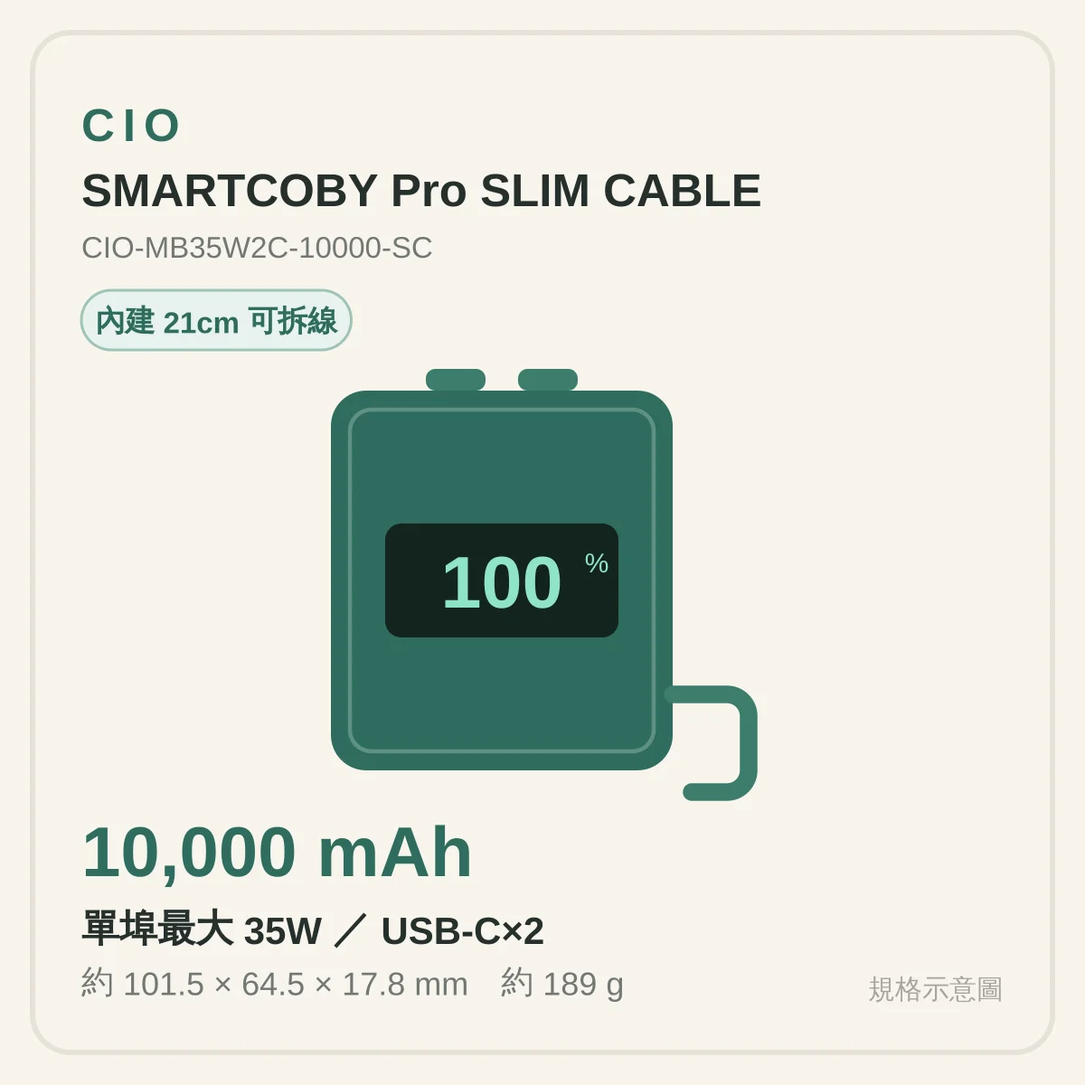
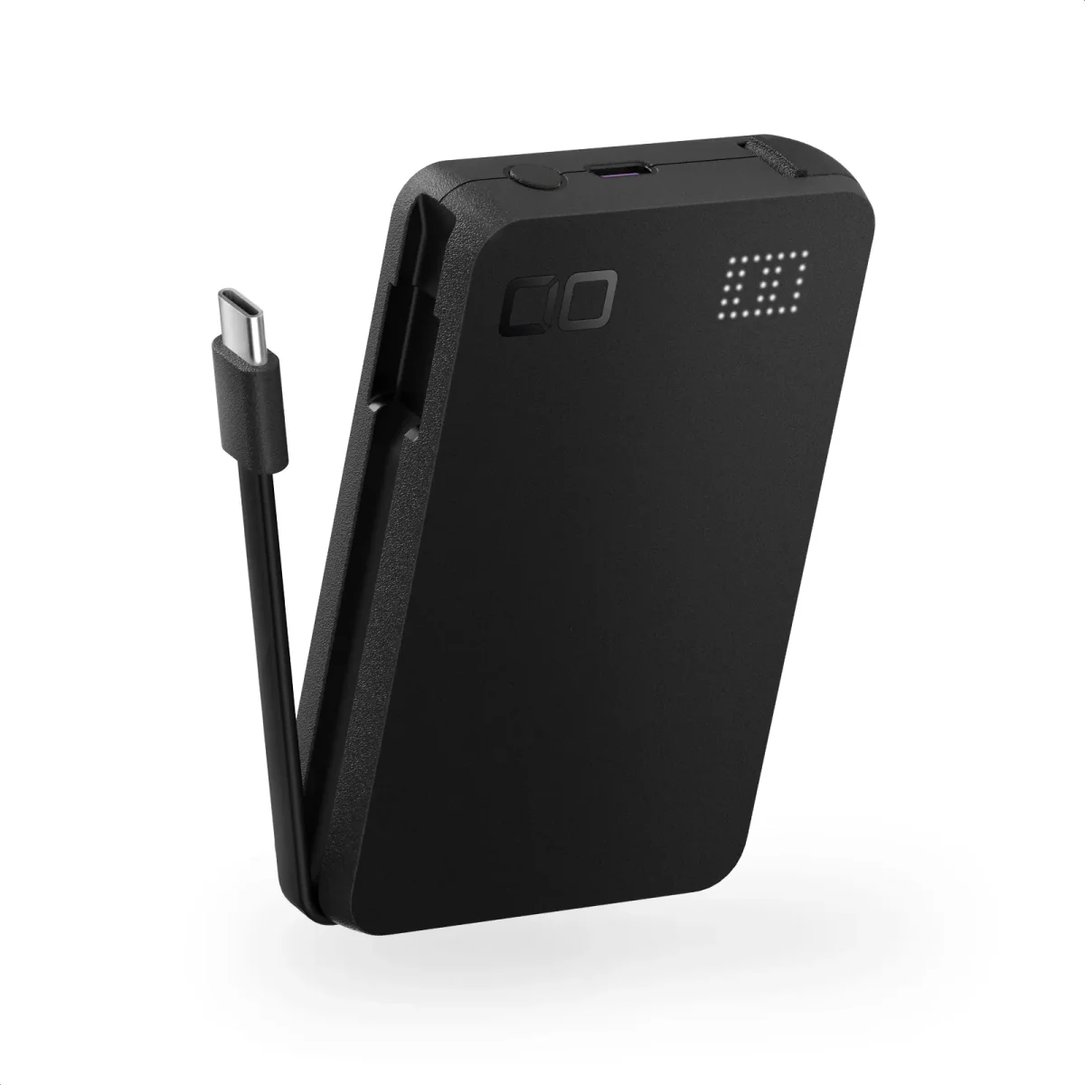
滑鼠與行動電源：8 項換上官方商品照，滑鼠分頁擴充到 10 款
原本 4 款滑鼠用文字版品牌卡、4 款 CIO 用自繪規格示意圖，這次換成
使用者提供的品牌官方商品照。Sanwa 軌跡球原圖是 3193px 高的行銷長圖，
裁出最上方主視覺（兩隻機身＋接收器完整入鏡）再進 build。

滑鼠分頁新增 6 款，補既有 4 款沒涵蓋的品類缺口，並依「人體工學造型
→ 軌跡球 → 隨身輕便」三組重排、組內由便宜到貴，MOUSE_SUMMARIES
編號改為 ①～⑩：

- ELECOM EX-G PRO M-XGM50MBSKBK ¥6,590（同系列頂規）
- Sanwa Supply 400-MA092 ¥2,780（最便宜的人體工學造型）
- Logicool ERGO M575 SP M575SPOW ¥8,400（軌跡球中階）
- Logicool MX ERGO S MXTB2 ¥17,700（軌跡球旗艦）
- Logicool PEBBLE MOUSE 2 M350sBL ¥3,240（超薄極輕）
- Buffalo BSMBW318BK ¥2,080（最低價備用）

六款價格皆以真實瀏覽器逐頁核對（Yodobashi 封鎖 curl，只驗 HTTP
狀態碼會全部假失敗）。研究稿原把 EX-G PRO 與 400-MA092 寫成垂直／
縦型滑鼠，覆核兩家官網後確認皆非垂直款，卡片文案已改為實際形狀並
明講「不是垂直滑鼠」；400-MA092 來源改用 Sanwa Direct 官方商品頁。

新增的 6 款尚無實拍照片，沿用專案既有的文字版品牌卡，分頁橫幅說明
改為「部分為官方商品照、部分為文字版品牌卡」。

驗收：npm run validate:data（73 項商品、73 個唯一 id、45 家店）與
npm test 皆綠燈；headless Chrome 430px 實測滑鼠／行動電源兩分頁圖片
全數載入、console 無錯誤；另派 fresh-context agent read-back 14 項全過。

diff --git a/assets/products.js b/assets/products.js
@@ -241,7 +241,7 @@ const BASE_PRODUCTS = [
     storeCandidates: ['biccamera-tenjin-2', 'yodobashi-camera-hakata', 'bestdenki-kokura-ekimae']
   },
 
-  // ── 滑鼠（mouse，4 項；品牌研究建議，尚未實地走訪店面核對現貨，卡片為文字版品牌卡） ──
+  // ── 滑鼠（mouse，10 項；品牌研究建議，尚未實地走訪店面核對現貨。前 4 項為品牌官方商品照，2026-08-20 新增的 6 項尚無實拍照片，用文字版品牌卡） ──
   {
     id: 'elecom-ex-g',
     group: 'mouse',
@@ -259,6 +259,42 @@ const BASE_PRODUCTS = [
     stores: [],
     storeCandidates: ['yodobashi-camera-hakata', 'biccamera-tenjin-1'],
     priceKind: 'retailer-reference', priceSourceUrl: 'https://www.yodobashi.com/product/100000001007874792/', priceCheckedAt: '2026-08-19', priceNote: 'Yodobashi.com 商品頁列出的 M 尺寸／2.4GHz／黑色款含稅售價；門市現場實際庫存尺寸、顏色與售價可能不同，請以店內標示為準。'
+  },
+  {
+    id: 'elecom-ex-g-pro',
+    group: 'mouse',
+    tracking: 'try',
+    category: null,
+    name: 'ELECOM EX-G PRO 人體工學無線滑鼠',
+    jaName: '静音 充電式 Bluetooth5.0マウス EX-G 8ボタン Mサイズ',
+    model: 'M-XGM50MBSKBK（Mサイズ・ブラック）',
+    yen: 6590,
+    twdRef: null,
+    defaultQty: null,
+    image: 'images/thumb/elecom-ex-g-pro.webp',
+    note: 'EX-G 系列的頂規版本，和上面那款是同一種「不必用力握住」的手形（不是垂直滑鼠），差別在功能全面升級：8 顆可自訂按鍵、可左右傾斜的高速滾輪、最多 3 台裝置切換、充電式免換電池。ELECOM 與整形外科醫師共同開發。適合已經確定喜歡 EX-G 手感、想一次買到系列最高階的人。',
+    source: 'docs/mouse-research-additional-2026-08-20.md',
+    stores: [],
+    storeCandidates: ['yodobashi-camera-hakata', 'biccamera-tenjin-1', 'biccamera-tenjin-2'],
+    priceKind: 'retailer-reference', priceSourceUrl: 'https://www.yodobashi.com/product/100000001008069243/', priceCheckedAt: '2026-08-20', priceNote: 'Yodobashi.com 商品頁含稅售價 ¥6,590（回饋 659 點）。ELECOM 官方商品頁標示的含稅定價為 ¥17,424，日本周邊廠商常訂高定價再由通路折讓，此處採實際付得出的通路價。門市庫存尺寸、顏色與售價可能不同，請以店內標示為準；尚未確認天神、博多實體店是否鋪貨。'
+  },
+  {
+    id: 'sanwa-400-ma092',
+    group: 'mouse',
+    tracking: 'try',
+    category: null,
+    name: 'Sanwa Supply 人體工學無線滑鼠 400-MA092',
+    jaName: 'ワイヤレスマウス 無線 2.4GHz エルゴノミクス ブルーLED 5ボタン',
+    model: '400-MA092（ブラック）',
+    yen: 2780,
+    twdRef: null,
+    defaultQty: null,
+    image: 'images/thumb/sanwa-400-ma092.webp',
+    note: '機身背部拉高、向內傾斜的人體工學造型（不是垂直滑鼠），手掌自然攤放不必用力抓握；5 鍵可自訂、2.4GHz 無線、中等尺寸男女都好握。¥2,780 是滑鼠分頁裡最便宜的人體工學款，不到 EX-G 的六折，適合想先用小預算試試這種形狀合不合手的人。',
+    source: 'docs/mouse-research-additional-2026-08-20.md',
+    stores: [],
+    storeCandidates: [],
+    priceKind: 'official', priceSourceUrl: 'https://direct.sanwa.co.jp/ItemPage/400-MA092', priceCheckedAt: '2026-08-20', priceNote: 'Sanwa Direct 官方線上商店商品頁含稅售價 ¥2,780。此為 Sanwa Direct 網路限定商品（WEB 限定），天神、博多實體通路不一定買得到，未列可詢問門市；想要的話建議直接線上訂購。'
   },
   {
     id: 'sanwa-ma-ergw19',
@@ -297,6 +333,42 @@ const BASE_PRODUCTS = [
     priceKind: 'official', priceSourceUrl: 'https://direct.sanwa.co.jp/ItemPage/400-MAWBTTB190BK', priceCheckedAt: '2026-08-19', priceNote: 'Sanwa Direct 官方線上商店商品頁含稅售價 ¥5,480。目前僅確認官方線上商店售價，尚未確認天神、博多實體店是否常態鋪貨。'
   },
   {
+    id: 'logicool-ergo-m575-sp',
+    group: 'mouse',
+    tracking: 'try',
+    category: null,
+    name: 'Logicool ERGO M575 SP 無線軌跡球滑鼠',
+    jaName: 'ワイヤレストラックボールマウス ERGO M575 SP 静音',
+    model: 'M575SPOW（オフホワイト＋ブルーボール）',
+    yen: 8400,
+    twdRef: null,
+    defaultQty: null,
+    image: 'images/thumb/logicool-ergo-m575-sp.webp',
+    note: '上面那顆 Sanwa 軌跡球與旗艦 MX ERGO S 之間的中價位選擇，同樣是拇指操作、手臂不用移動，按鍵做了靜音化。支援藍牙與 Logi Bolt 接收器。適合想體驗軌跡球好處、又還不確定要不要一次投資到旗艦款的人。',
+    source: 'docs/mouse-research-additional-2026-08-20.md',
+    stores: [],
+    storeCandidates: ['yodobashi-camera-hakata', 'biccamera-tenjin-1', 'biccamera-tenjin-2'],
+    priceKind: 'retailer-reference', priceSourceUrl: 'https://www.yodobashi.com/product/100000001008693278/', priceCheckedAt: '2026-08-20', priceNote: 'Yodobashi.com 商品頁含稅售價 ¥8,400（回饋 840 點）。門市庫存顏色與售價可能不同；尚未確認天神、博多實體店是否鋪貨。'
+  },
+  {
+    id: 'logicool-mx-ergo-s',
+    group: 'mouse',
+    tracking: 'try',
+    category: null,
+    name: 'Logicool MX ERGO S 無線軌跡球滑鼠',
+    jaName: 'ワイヤレストラックボールマウス MX ERGO S 充電式 8ボタン',
+    model: 'MXTB2（グラファイト）',
+    yen: 17700,
+    twdRef: null,
+    defaultQty: null,
+    image: 'images/thumb/logicool-mx-ergo-s.webp',
+    note: 'Logicool 軌跡球的旗艦款，機身角度可調（平放或傾斜 20 度），8 鍵可自訂並支援 Smart Actions 巨集，USB-C 快充。價格是分頁裡最高的，適合已經用慣軌跡球、確定這是自己長期主力、想一次到位的重度使用者；只是旅途臨時用的話不必買到這款。',
+    source: 'docs/mouse-research-additional-2026-08-20.md',
+    stores: [],
+    storeCandidates: ['yodobashi-camera-hakata', 'biccamera-tenjin-1', 'biccamera-tenjin-2'],
+    priceKind: 'retailer-reference', priceSourceUrl: 'https://www.yodobashi.com/product/100000001008693280/', priceCheckedAt: '2026-08-20', priceNote: 'Yodobashi.com 商品頁含稅售價 ¥17,700（回饋 1,770 點）。Amazon 等通路查到 ¥16,091 更低價，比價後再決定通路較划算。門市庫存與售價可能不同；尚未確認天神、博多實體店是否鋪貨。'
+  },
+  {
     id: 'logicool-mx-anywhere-3s',
     group: 'mouse',
     tracking: 'try',
@@ -313,6 +385,42 @@ const BASE_PRODUCTS = [
     stores: [],
     storeCandidates: ['yodobashi-camera-hakata', 'biccamera-tenjin-1'],
     priceKind: 'retailer-reference', priceSourceUrl: 'https://www.yodobashi.com/product/100000001007851366/', priceCheckedAt: '2026-08-19', priceNote: 'Yodobashi.com 石墨灰（MX1800GR）款含稅售價，另有多種顏色與 Mac 專用版本；門市現場售價與庫存顏色可能不同。'
+  },
+  {
+    id: 'logicool-pebble-mouse-2-m350s',
+    group: 'mouse',
+    tracking: 'try',
+    category: null,
+    name: 'Logicool PEBBLE MOUSE 2 M350S 超薄靜音滑鼠',
+    jaName: 'ワイヤレスマウス PEBBLE MOUSE 2 M350S Bluetooth 薄型 静音',
+    model: 'M350sBL（ブルー）',
+    yen: 3240,
+    twdRef: null,
+    defaultQty: null,
+    image: 'images/thumb/logicool-pebble-mouse-2-m350s.webp',
+    note: '比上面的 MX Anywhere 3S 更薄更輕、鵝卵石般的圓潤外型，塞進包包夾層不佔空間；按鍵聲音大幅降低，單顆三號電池可用約 24 個月，藍牙可在 3 台裝置間切換。適合純粹想要一支輕便旅行用滑鼠、不需要進階功能的人。',
+    source: 'docs/mouse-research-additional-2026-08-20.md',
+    stores: [],
+    storeCandidates: ['yodobashi-camera-hakata', 'biccamera-tenjin-1', 'biccamera-tenjin-2'],
+    priceKind: 'retailer-reference', priceSourceUrl: 'https://www.yodobashi.com/product/100000001008119012/', priceCheckedAt: '2026-08-20', priceNote: 'Yodobashi.com 藍色款（M350sBL）含稅售價 ¥3,240（回饋 324 點），另有多種顏色。門市庫存顏色與售價可能不同；尚未確認天神、博多實體店是否鋪貨。'
+  },
+  {
+    id: 'buffalo-bsmbw318bk',
+    group: 'mouse',
+    tracking: 'try',
+    category: null,
+    name: 'Buffalo 無線靜音滑鼠 BSMBW318BK',
+    jaName: 'ワイヤレスマウス 無線 2.4GHz BlueLED 5ボタン 電池式',
+    model: 'BSMBW318BK（ブラック）',
+    yen: 2080,
+    twdRef: null,
+    defaultQty: null,
+    image: 'images/thumb/buffalo-bsmbw318bk.webp',
+    note: '日本本土品牌的入門無線滑鼠，一般形狀（沒有人體工學設計），5 鍵可指定功能、靜音點擊、乾電池式。¥2,080 是分頁裡最便宜的，適合只想帶一支堪用的備用滑鼠、或臨時發現忘了帶而需要就近補一支的情況。',
+    source: 'docs/mouse-research-additional-2026-08-20.md',
+    stores: [],
+    storeCandidates: ['yodobashi-camera-hakata', 'biccamera-tenjin-1', 'biccamera-tenjin-2'],
+    priceKind: 'retailer-reference', priceSourceUrl: 'https://www.yodobashi.com/product/100000001004427483/', priceCheckedAt: '2026-08-20', priceNote: 'Yodobashi.com 商品頁含稅售價 ¥2,080（回饋 208 點）。門市庫存與售價可能不同；尚未確認天神、博多實體店是否鋪貨。'
   },
 
   // ── ON 鞋款（shoes，5 項）──
@@ -806,7 +914,7 @@ const BASE_PRODUCTS = [
     group: 'powerbank', tracking: 'try', category: '3C 配件',
     name: 'CIO SMARTCOBY Pro SLIM SS 行動電源', jaName: 'SMARTCOBY Pro SLIM SS', model: 'CIO-MB35W2C1A-SSA10K-S・黑／白',
     yen: 6280, twdRef: null, defaultQty: null, image: 'images/thumb/cio-smartcoby-pro-slim-ss-10k.webp',
-    note: '只充手機的首選：現行陣容裡最便宜也最輕的 10,000 mAh。單埠最大 35 W，USB-C×2＋USB-A×1；約 66.8 × 98.3 × 16 mm、187 g，本體充飽只要 90 分鐘（五款中最快）。半固體電池、循環約 300 次，支援邊充邊放與 1% 數字電量。《家電批評》2026 上半期「準固體行動電源」部門年度 Best Buy，總評 4.45，實測實際可充出 6,187 mAh。缺點是沒有無線也沒有內建線，要自己帶線。備註：卡片圖為依官方規格自繪的示意圖，不是官方商品照。', source: 'docs/product-price-sources-2026-08-19.md', stores: [], storeCandidates: ['yodobashi-camera-hakata', 'biccamera-tenjin-1', 'biccamera-tenjin-2'],
+    note: '只充手機的首選：現行陣容裡最便宜也最輕的 10,000 mAh。單埠最大 35 W，USB-C×2＋USB-A×1；約 66.8 × 98.3 × 16 mm、187 g，本體充飽只要 90 分鐘（五款中最快）。半固體電池、循環約 300 次，支援邊充邊放與 1% 數字電量。《家電批評》2026 上半期「準固體行動電源」部門年度 Best Buy，總評 4.45，實測實際可充出 6,187 mAh。缺點是沒有無線也沒有內建線，要自己帶線。', source: 'docs/product-price-sources-2026-08-19.md', stores: [], storeCandidates: ['yodobashi-camera-hakata', 'biccamera-tenjin-1', 'biccamera-tenjin-2'],
     priceKind: 'official', priceSourceUrl: 'https://connectinternationalone.co.jp/cioproduct/mobilebattery/smartcoby/cio-mb35w2c1a-ssa10k-s/', priceCheckedAt: '2026-08-19', priceNote: '官方建議售價含稅 ¥6,280（2026-03-27 上市），屬 CIO 現行在售陣容；家電量販門市售價可能不同。'
   },
   {
@@ -814,7 +922,7 @@ const BASE_PRODUCTS = [
     group: 'powerbank', tracking: 'try', category: '3C 配件',
     name: 'CIO SMARTCOBY SLIMII Wireless 2.2 Pro SS10K 行動電源', jaName: 'SMARTCOBY SLIMⅡ Wireless2.2 Pro SS10K', model: 'CIO-MB35W1C-SS10K-S2W25',
     yen: 8580, twdRef: null, defaultQty: null, image: 'images/thumb/cio-smartcoby-slimii-wireless-2-2-pro-ss10k.webp',
-    note: '同頁 8K 那款的現行接班人：比 8K 便宜 ¥400、容量多 2,000 mAh、電芯改半固體、有線輸出從 30 W 升到 35 W。Qi2.2 磁吸無線 25 W，貼在 MagSafe 手機背後免拉線；約 101 × 70 × 17 mm、225 g，本體充飽約 140 分鐘、循環約 400 次。無線與有線同時使用時為 15 W＋5 W。想要磁吸貼背就買這款，不要買 8K。備註：卡片圖為依官方規格自繪的示意圖，不是官方商品照。', source: 'docs/product-price-sources-2026-08-19.md', stores: [], storeCandidates: ['yodobashi-camera-hakata', 'biccamera-tenjin-1', 'biccamera-tenjin-2'],
+    note: '同頁 8K 那款的現行接班人：比 8K 便宜 ¥400、容量多 2,000 mAh、電芯改半固體、有線輸出從 30 W 升到 35 W。Qi2.2 磁吸無線 25 W，貼在 MagSafe 手機背後免拉線；約 101 × 70 × 17 mm、225 g，本體充飽約 140 分鐘、循環約 400 次。無線與有線同時使用時為 15 W＋5 W。想要磁吸貼背就買這款，不要買 8K。', source: 'docs/product-price-sources-2026-08-19.md', stores: [], storeCandidates: ['yodobashi-camera-hakata', 'biccamera-tenjin-1', 'biccamera-tenjin-2'],
     priceKind: 'official', priceSourceUrl: 'https://connectinternationalone.co.jp/cioproduct/mobilebattery/smartcoby/cio-mb35w1c-ss10k-s2w25/', priceCheckedAt: '2026-08-19', priceNote: '官方建議售價含稅 ¥8,580，屬 CIO 現行在售陣容；家電量販門市售價可能不同。'
   },
   {
@@ -830,7 +938,7 @@ const BASE_PRODUCTS = [
     group: 'powerbank', tracking: 'try', category: '3C 配件',
     name: 'CIO SMARTCOBY Pro SLIM CABLE 行動電源', jaName: 'SMARTCOBY Pro SLIM CABLE 35W2C', model: 'CIO-MB35W2C-10000-SC・黑／白',
     yen: 5980, twdRef: null, defaultQty: null, image: 'images/thumb/cio-smartcoby-pro-slim-cable.webp',
-    note: '機身自帶約 21 cm 的 USB-C to C 線，旅行時少帶一條線，而且線是可拆式、斷了能單獨換。10,000 mAh、單埠最大 35 W，約 101.5 × 64.5 × 17.8 mm、189 g，本體充飽約 90 分鐘。只充一台手機時它的兩個缺點（沒有 USB-A、兩台同時只有合計 30 W）都碰不到。已不在 CIO 官方現行系列頁上，屬舊世代（非半固體），但官方選購指南仍在推薦；通路實售常低到 ¥4,464，若在門市看到出清價很值得撿。備註：卡片圖為依官方規格自繪的示意圖，不是官方商品照。', source: 'docs/product-price-sources-2026-08-19.md', stores: [], storeCandidates: ['yodobashi-camera-hakata', 'biccamera-tenjin-1', 'biccamera-tenjin-2'],
+    note: '機身自帶約 21 cm 的 USB-C to C 線，旅行時少帶一條線，而且線是可拆式、斷了能單獨換。10,000 mAh、單埠最大 35 W，約 101.5 × 64.5 × 17.8 mm、189 g，本體充飽約 90 分鐘。只充一台手機時它的兩個缺點（沒有 USB-A、兩台同時只有合計 30 W）都碰不到。已不在 CIO 官方現行系列頁上，屬舊世代（非半固體），但官方選購指南仍在推薦；通路實售常低到 ¥4,464，若在門市看到出清價很值得撿。', source: 'docs/product-price-sources-2026-08-19.md', stores: [], storeCandidates: ['yodobashi-camera-hakata', 'biccamera-tenjin-1', 'biccamera-tenjin-2'],
     priceKind: 'official', priceSourceUrl: 'https://connectinternationalone.co.jp/cioproduct/mobilebattery/smartcoby/cio-mb35w2c-10000-sc/', priceCheckedAt: '2026-08-19', priceNote: '官方建議售價含稅 ¥5,980。本款已不在 CIO 官方現行系列頁上，兩家量販都不保證有貨，到店請直接報型號問店員。官方頁面對電量顯示自相矛盾（功能敘述寫數字顯示、規格表寫點陣 LED），到店請按實機確認。'
   },
   {
@@ -838,7 +946,7 @@ const BASE_PRODUCTS = [
     group: 'powerbank', tracking: 'try', category: '3C 配件',
     name: 'CIO SMARTCOBY Pro CABLE C 行動電源', jaName: 'SMARTCOBY Pro CABLE C', model: 'SMARTCOBYPRO-35W-CABLE-C・黑／白',
     yen: 6578, twdRef: null, defaultQty: null, image: 'images/thumb/cio-smartcoby-pro-cable-c.webp',
-    note: '同樣是內建可拆式 USB-C 線的 10,000 mAh、單埠最大 35 W，但機身約 83 × 66 × 26.3 mm、198 g——佔地面積較小卻厚達 26.3 mm，總體積比 Pro SLIM CABLE 大約兩成四，官方定價還貴 ¥598，兩台同時充更只有合計 15 W。是同門 Pro SLIM CABLE 的上一代，除非在門市看到出清到 ¥3,000 上下，否則沒有理由選它。備註：卡片圖為依官方規格自繪的示意圖，不是官方商品照。', source: 'docs/product-price-sources-2026-08-19.md', stores: [], storeCandidates: ['yodobashi-camera-hakata', 'biccamera-tenjin-1', 'biccamera-tenjin-2'],
+    note: '同樣是內建可拆式 USB-C 線的 10,000 mAh、單埠最大 35 W，但機身約 83 × 66 × 26.3 mm、198 g——佔地面積較小卻厚達 26.3 mm，總體積比 Pro SLIM CABLE 大約兩成四，官方定價還貴 ¥598，兩台同時充更只有合計 15 W。是同門 Pro SLIM CABLE 的上一代，除非在門市看到出清到 ¥3,000 上下，否則沒有理由選它。', source: 'docs/product-price-sources-2026-08-19.md', stores: [], storeCandidates: ['yodobashi-camera-hakata', 'biccamera-tenjin-1', 'biccamera-tenjin-2'],
     priceKind: 'official', priceSourceUrl: 'https://connectinternationalone.co.jp/cioproduct/mobilebattery/smartcoby/smartcoby-pro-cable-c/', priceCheckedAt: '2026-08-19', priceNote: '官方建議售價含稅 ¥6,578。本款已不在 CIO 官方現行系列頁上，屬更早的群眾募資世代，兩家量販都不保證有貨，到店請直接報型號問店員。'
   }
 ];

diff --git a/index.html b/index.html
@@ -206,17 +206,31 @@ const SHOE_BRANDS = {
 
 const MOUSE_BRANDS = {
   'elecom-ex-g': 'ELECOM',
+  'elecom-ex-g-pro': 'ELECOM',
+  'sanwa-400-ma092': 'Sanwa Supply',
   'sanwa-ma-ergw19': 'Sanwa Supply',
   'sanwa-trackball-400-mawbttb190': 'Sanwa Supply',
+  'logicool-ergo-m575-sp': 'Logicool',
+  'logicool-mx-ergo-s': 'Logicool',
   'logicool-mx-anywhere-3s': 'Logicool',
+  'logicool-pebble-mouse-2-m350s': 'Logicool',
+  'buffalo-bsmbw318bk': 'Buffalo',
 };
 
-/* 滑鼠分頁卡片上的「這款的定位是什麼」，呼應鞋款／行動電源的一句話定位寫法。 */
+/* 滑鼠分頁卡片上的「這款的定位是什麼」，呼應鞋款／行動電源的一句話定位寫法。
+ * 編號依 products.js 的排列分成三組：①～④ 人體工學造型、⑤～⑦ 軌跡球、⑧～⑩ 隨身輕便，
+ * 組內由價格低到高。改動順序時這裡的編號要跟著改。 */
 const MOUSE_SUMMARIES = {
-  'elecom-ex-g': '① 日規人體工學入門・多尺寸可選',
-  'sanwa-ma-ergw19': '② 棒狀造型・手腕完全不用扭轉',
-  'sanwa-trackball-400-mawbttb190': '③ 軌跡球・免移動手臂，適合窄桌面',
-  'logicool-mx-anywhere-3s': '④ 主流大廠・輕巧隨身、多裝置切換',
+  'elecom-ex-g': '① 人體工學入門・多尺寸可選',
+  'elecom-ex-g-pro': '② 人體工學頂規・8 鍵、3 台切換、充電式',
+  'sanwa-400-ma092': '③ 人體工學最便宜・小預算試手感',
+  'sanwa-ma-ergw19': '④ 棒狀造型・手腕完全不用扭轉',
+  'sanwa-trackball-400-mawbttb190': '⑤ 軌跡球入門・免移動手臂，適合窄桌面',
+  'logicool-ergo-m575-sp': '⑥ 軌跡球中階・靜音、大廠手感',
+  'logicool-mx-ergo-s': '⑦ 軌跡球旗艦・角度可調、可自訂巨集',
+  'logicool-mx-anywhere-3s': '⑧ 高階隨身・玻璃桌面可用、多裝置切換',
+  'logicool-pebble-mouse-2-m350s': '⑨ 超薄極輕・包包夾層塞得下',
+  'buffalo-bsmbw318bk': '⑩ 最低價備用・堪用就好',
 };
 
 const DRYER_COMPARISON_ROWS = {
@@ -344,7 +358,7 @@ function mouseNoteHtml(items) {
     : '');
   const candidateHtml = candidateIds.map(linkFor).filter(Boolean).join('');
   return `<section class="kij-store-banner" aria-label="滑鼠品牌卡片說明">
-    <p class="kij-compare-note">以下為依品牌口碑與官方規格整理的<strong>研究建議</strong>，尚未實地到店核對現貨與售價，圖片為文字版品牌卡而非實拍照片；購買前請以店內標示與庫存為準。</p>
+    <p class="kij-compare-note">以下為依品牌口碑與官方規格整理的<strong>研究建議</strong>，尚未實地到店核對現貨與售價，圖片部分為品牌官方商品照、部分為文字版品牌卡（該款尚無實拍照片）；購買前請以店內標示與庫存為準。</p>
     ${candidateHtml ? `<div class="kij-store-banner-row"><span>可詢問門市</span><div class="kij-store-links">${candidateHtml}</div></div>` : ''}
   </section>`;
 }

diff --git a/docs/mouse-research-additional-2026-08-20.md b/docs/mouse-research-additional-2026-08-20.md
@@ -1,0 +1,91 @@
+# 北九州購物清單「滑鼠」分頁擴充候選 品牌研究與價格查核
+
+- 查詢時間：2026-08-20 20:23（Asia/Taipei）
+- 查詢範圍：品牌官方商品頁 → Yodobashi.com → Sanwa Direct（Sanwa Supply 官方線上商店）→ ビックカメラ官網，依此優先序取價；本頁多數品項最終取自 Yodobashi.com 或 Sanwa Direct 的線上顯示售價。
+- 用途：補齊現有 4 款滑鼠（ELECOM EX-G M-XGM30DBSKBK／Sanwa Supply MA-ERGW19／Sanwa Supply 400-MAWBTTB190BK／Logicool MX Anywhere 3S）尚未涵蓋的品類缺口，供網站商品卡使用。
+- 價格說明：日本官方與大型通路依法採「總額表示」（税込總價），以下皆為含稅售價；金額可能隨時異動，出發前請以現場或官網當下標示為準。
+
+## 卡片清單
+
+| 品牌 | 型號 | 補的缺口 | 含稅參考價 | 來源 |
+| --- | --- | --- | ---: | --- |
+| ELECOM | M-XGM50MBSKBK（EX-G PRO／Mサイズ・ブラック） | EX-G 系列旗艦：與現有 EX-G 同為「握らない」形狀（非垂直款），但升級為 8 鍵、傾斜滾輪、3 台多重連線、充電式，補「同系列高階版」缺口 | ¥6,590 | [Yodobashi.com 商品頁](https://www.yodobashi.com/product/100000001008069243/) |
+| Sanwa Supply | 400-MA092（エルゴノミクスマウス ワイヤレス） | 最平價人體工學造型款：高背傾斜機身（非垂直款），價格不到 EX-G 的六折，補「想試人體工學形狀但預算最低」缺口 | ¥2,780 | [Sanwa Direct 官方商品頁](https://direct.sanwa.co.jp/ItemPage/400-MA092) |
+| Logicool | MXTB2（MX ERGO S／グラファイト） | 高階軌跡球旗艦款：比現有 Sanwa 拇指軌跡球更靜音、USB-C 快充、Smart Actions 巨集，補「專業級軌跡球」缺口 | ¥17,700 | [Yodobashi.com 商品頁](https://www.yodobashi.com/product/100000001008693280/) |
+| Logicool | M575SPOW（ERGO M575 SP／オフホワイト＋ブルーボール） | 中階靜音軌跡球：MX ERGO S 與現有 Sanwa 軌跡球之間的中價位選項，靜音化升級版，補「軌跡球中階帶」缺口 | ¥8,400 | [Yodobashi.com 商品頁](https://www.yodobashi.com/product/100000001008693278/) |
+| Logicool | M350sBL（PEBBLE MOUSE 2 M350S／ブルー） | 超薄極輕隨身款：比現有 MX Anywhere 3S 更輕薄、單顆 3 號電池續航約 24 個月，補「純攜帶輕便、非重度作業」缺口 | ¥3,240 | [Yodobashi.com 商品頁](https://www.yodobashi.com/product/100000001008119012/) |
+| Buffalo | BSMBW318BK（ワイヤレスBlueLEDマウス／ブラック） | 日本本土低價 CP 值款：無線靜音 5 鍵基本款，補「預算有限、只要堪用即可」缺口 | ¥2,080 | [Yodobashi.com 商品頁](https://www.yodobashi.com/product/100000001004427483/) |
+
+## 卡片文案（可直接複製使用）
+
+### 1. ELECOM EX-G PRO 垂直式無線滑鼠
+
+- 中文品名：ELECOM EX-G PRO 垂直式無線滑鼠（M 尺寸・黑）
+- jaName：エレコム ワイヤレスマウス EX-G PRO Bluetooth/無線（2.4GHz） 充電式 Ultimate BlueLED 8ボタン 戻る/進むボタン搭載 静音 チルトホイール付 右手専用 抗菌仕様 Mサイズ DPI切換ボタン搭載 ブラック
+- model：M-XGM50MBSKBK
+- yen：6590
+- note：與現有 EX-G 同為 ELECOM 與整形外科醫師共同開發的「不必握住」形狀（不是垂直滑鼠），差別在功能全面升級：8 顆可自訂按鍵、支援左右傾斜的高速滾輪、最多 3 台裝置切換、充電式免換電池。適合已經確定喜歡 EX-G 手感、想一次買到系列頂規的人。
+- 建議 storeCandidates：ヨドバシカメラ博多、ビックカメラ天神 1 號館／2 號館（未確認實體店鋪貨，僅查得 Yodobashi.com 線上售價）
+
+### 2. Sanwa Supply 人體工學無線滑鼠
+
+- 中文品名：Sanwa Supply 人體工學無線滑鼠
+- jaName：サンワサプライ ワイヤレスマウス 無線 2.4GHz エルゴノミクス ブルーLED 5ボタン
+- model：400-MA092
+- yen：2780
+- note：機身背部拉高、向內傾斜的人體工學造型（不是垂直滑鼠），手掌自然攤放不必用力抓握，5 鍵可自訂、2.4GHz 無線、中等尺寸男女都好握。¥2,780 是本頁人體工學款中最便宜的，適合想先用小預算試試人體工學形狀合不合手的人。Sanwa Direct 網路限定商品。
+- 建議 storeCandidates：未確認實體店鋪貨（Sanwa Direct 網路限定商品，天神／博多實體通路尚未查證）
+
+### 3. Logicool MX ERGO S 無線軌跡球滑鼠
+
+- 中文品名：Logicool MX ERGO S 無線軌跡球滑鼠（曜石灰）
+- jaName：ロジクール ワイヤレストラックボールマウス MX ERGO S Bluetooth/Logi Bolt USBレシーバー対応 充電式 8ボタン 戻る・進むボタン搭載 USB-C急速充電対応 Smart Actions対応 グラファイト
+- model：MXTB2
+- yen：17700
+- note：Logicool 軌跡球旗艦款，比一般滑鼠移動距離更短、久坐辦公不易手臂痠痛，USB-C 快充與可調角度支架、支援自訂巨集，適合已經用慣軌跡球、想一次到位買最高階款式的重度使用者。
+- 建議 storeCandidates：ヨドバシカメラ博多、ビックカメラ天神 1 號館／2 號館（未確認實體店鋪貨，僅查得 Yodobashi.com 線上售價）
+
+### 4. Logicool ERGO M575 SP 無線軌跡球滑鼠
+
+- 中文品名：Logicool ERGO M575 SP 無線軌跡球滑鼠（象牙白＋藍球）
+- jaName：ロジクール ワイヤレストラックボールマウス ERGO M575 SP 5ボタン Bluetooth/Logi Boltレシーバー接続 静音 オフホワイト＋ブルーボール
+- model：M575SPOW
+- yen：8400
+- note：MX ERGO S 的靜音化中價位版本，介於入門與旗艦軌跡球之間，操作手感相近但價格親民許多，適合想體驗軌跡球優點、但還不確定要不要投資旗艦款的人。
+- 建議 storeCandidates：ヨドバシカメラ博多、ビックカメラ天神 1 號館／2 號館（未確認實體店鋪貨，僅查得 Yodobashi.com 線上售價）
+
+### 5. Logicool PEBBLE MOUSE 2 M350S 超薄靜音滑鼠
+
+- 中文品名：Logicool PEBBLE MOUSE 2 M350S 超薄靜音滑鼠（藍色）
+- jaName：ロジクール ワイヤレスマウス PEBBLE MOUSE 2 M350S Bluetooth 3ボタン EasySwitch搭載
+- model：M350sBL
+- yen：3240
+- note：比現有 MX Anywhere 3S 更輕薄、機身圓潤好收納，單顆三號電池可用約 24 個月、按鍵聲音降低九成，適合純粹想要一支輕便隨身、放進包包不佔空間的旅行用滑鼠，不追求進階功能的人。
+- 建議 storeCandidates：ヨドバシカメラ博多、ビックカメラ天神 1 號館／2 號館（未確認實體店鋪貨，僅查得 Yodobashi.com 線上售價）
+
+### 6. Buffalo 無線 BlueLED 靜音滑鼠
+
+- 中文品名：Buffalo 無線 BlueLED 靜音滑鼠（黑）
+- jaName：バッファロー ワイヤレスマウス 無線（2.4GHz）接続式 BlueLED 5ボタンタイプ 電池式 ボタン割当 ブラック
+- model：BSMBW318BK
+- yen：2080
+- note：日本本土品牌的入門級無線滑鼠，5 鍵可自訂、靜音點擊，價格是本清單中最低，適合只想帶一支堪用備用滑鼠、不追求人體工學或進階功能、單純省錢的旅客。
+- 建議 storeCandidates：ヨドバシカメラ博多、ビックカメラ天神 1 號館／2 號館（未確認實體店鋪貨，僅查得 Yodobashi.com 線上售價）
+
+## 查核備註
+
+- 查詢時間：2026-08-20 20:23（Asia/Taipei）。
+- 價格時效性：以上六款價格皆為查詢當下 Yodobashi.com 或 Sanwa Direct（Yahoo!ショッピング店）線上顯示的含稅售價，日本零售價格會隨促銷、庫存與時間異動，出發前（2026 年 9 月）建議重新至官網或到店核對。
+- ELECOM M-XGM50MBSKBK 另有山田電機、Kojima、K's 電機、Sofmap 等通路報價約 ¥5,929，較 Yodobashi.com 略低，惟本頁依查核優先序（Yodobashi.com 高於一般價格比較網站彙整值）採用 Yodobashi.com 的 ¥6,590。
+- Logicool MXTB2 另有 Amazon（¥16,091）與部分小型通路（¥15,930）報價更低，同樣依查核優先序採用 Yodobashi.com 的 ¥17,700。
+- **實體店鋪貨狀況：本頁六款皆未實地或透過官方管道確認天神／博多／小倉實體門市（ヨドバシカメラ博多、ビックカメラ天神 1 號館／2 號館、ベスト電器小倉站前、HANDS 博多）是否有現貨鋪貨，僅查得線上商店（Yodobashi.com、Sanwa Direct）當下顯示有售，一律標記「未確認實體店鋪貨」。** 建議出發前致電門市或以 Yodobashi App／官網查詢各分店庫存，找不到現貨時可改線上訂購或選擇日本境內超商取貨。
+- 本頁六款均為根據品類缺口分析與線上通路報價整理出的**研究建議**，非已到店實測比較，卡片圖片為文字版品牌卡（無實拍照片）。
+
+## 2026-08-20 主對話覆核紀錄
+
+以 headless 瀏覽器實際開啟各來源頁面覆核（Yodobashi.com 會封鎖 `curl`，必須用真實瀏覽器），結果如下：
+
+- **價格全部相符**：M-XGM50MBSKBK ¥6,590、MXTB2 ¥17,700、M575SPOW ¥8,400、M350sBL ¥3,240、BSMBW318BK ¥2,080、400-MA092 ¥2,780，六款皆與原查核一致。
+- **修正兩處定位錯誤**：原稿把 ELECOM M-XGM50MBSKBK 與 Sanwa 400-MA092 都寫成「垂直／縦型滑鼠」，實際覆核後兩者皆非垂直款——ELECOM 官方頁全文無「縦型／垂直／傾斜」字樣，自述為「整形外科醫師共同開發的『握らないマウス』EX-G 系列 PRO 型號」；Sanwa 官方頁同樣無「縦型／垂直」字樣，商品圖為高背傾斜造型，自述「エルゴノミクス形状・ミドルサイズ」。表格與卡片文案已改寫為實際形狀。
+- **改用製造商官方頁**：400-MA092 的來源由 Yahoo!ショッピング 店面改為 Sanwa Direct 官方商品頁 <https://direct.sanwa.co.jp/ItemPage/400-MA092>（同為 ¥2,780），與既有 400-MAWBTTB190BK 的引用來源一致。
+- **ELECOM 官方定價與實售價落差**：ELECOM 官方商品頁標示的含稅定價為 ¥17,424，Yodobashi 實售 ¥6,590（回饋 659 點，恰為 10%，數字自洽）。日本周邊廠商常訂高定價再由通路折讓，卡片採用實際付得出的通路價 ¥6,590，並在 `priceNote` 註明官方定價供對照。

diff --git a/README.md b/README.md
@@ -189,7 +189,7 @@ npm run build:images
 
 ## 圖片來源
 
-- CIO 行動電源（`cio-smartcoby-pro-slim-ss-10k`、`cio-smartcoby-trio-35w-ss-20k`）的卡片圖為**依官方規格自繪的規格示意圖**（原圖為 `images/source/*.svg`），不是官方商品照；圖上右下角標註「規格示意圖」，商品 `note` 也寫明。取得可用實品照片後，替換原圖再跑 `npm run build:images` 即可。
+- CIO 行動電源與滑鼠分頁的卡片圖為**品牌官方商品照**（2026-08-20 由規格示意圖／文字版品牌卡換成實品照）；原圖存於 `images/source/`，如需更換照片，覆蓋原圖後再跑 `npm run build:images` 即可。舊的 `.svg` 規格示意圖仍留在 `images/source/`，已不被 `images/build-manifest.json` 引用。
 - ON 鞋款圖片取自 [ON 官方網站](https://www.on.com/)，頁面內均標註來源並連回對應官方商品頁。
 - HOKA 鞋款圖片取自台灣經銷商 [ISPO+ 官方網站](https://www.ispo.com.tw/)，頁面內均標註實際圖片來源；商品資訊連結仍指向 HOKA 日本官方網站。
 - 圖片僅供個人旅遊採購規劃使用；公開或商業使用仍應依品牌授權條款辦理。

diff --git a/docs/mouse-price-research-2026-08-19.md b/docs/mouse-price-research-2026-08-19.md
@@ -18,4 +18,4 @@
 
 - ELECOM EX-G 與 Logicool MX Anywhere 3S 的價格取自 Yodobashi.com 商品頁當下顯示售價；門市（Yodobashi 博多、BicCamera 天神）現場尺寸／顏色庫存與售價可能不同。
 - Sanwa Supply 兩款目前僅確認官方線上商店（sanwa.co.jp／Sanwa Direct）售價，尚未確認天神、博多實體店（BicCamera、Yodobashi、HANDS 博多店）是否常態鋪貨；建議先致電或到店詢問，找不到現貨時可改線上訂購。
-- 本頁四款均為根據品牌口碑與規格整理出的**研究建議**，非已到店實測比較，卡片圖片為文字版品牌卡（無實拍照片）。
+- 本頁四款均為根據品牌口碑與規格整理出的**研究建議**，非已到店實測比較。卡片圖片已於 2026-08-20 換為品牌官方商品照。
